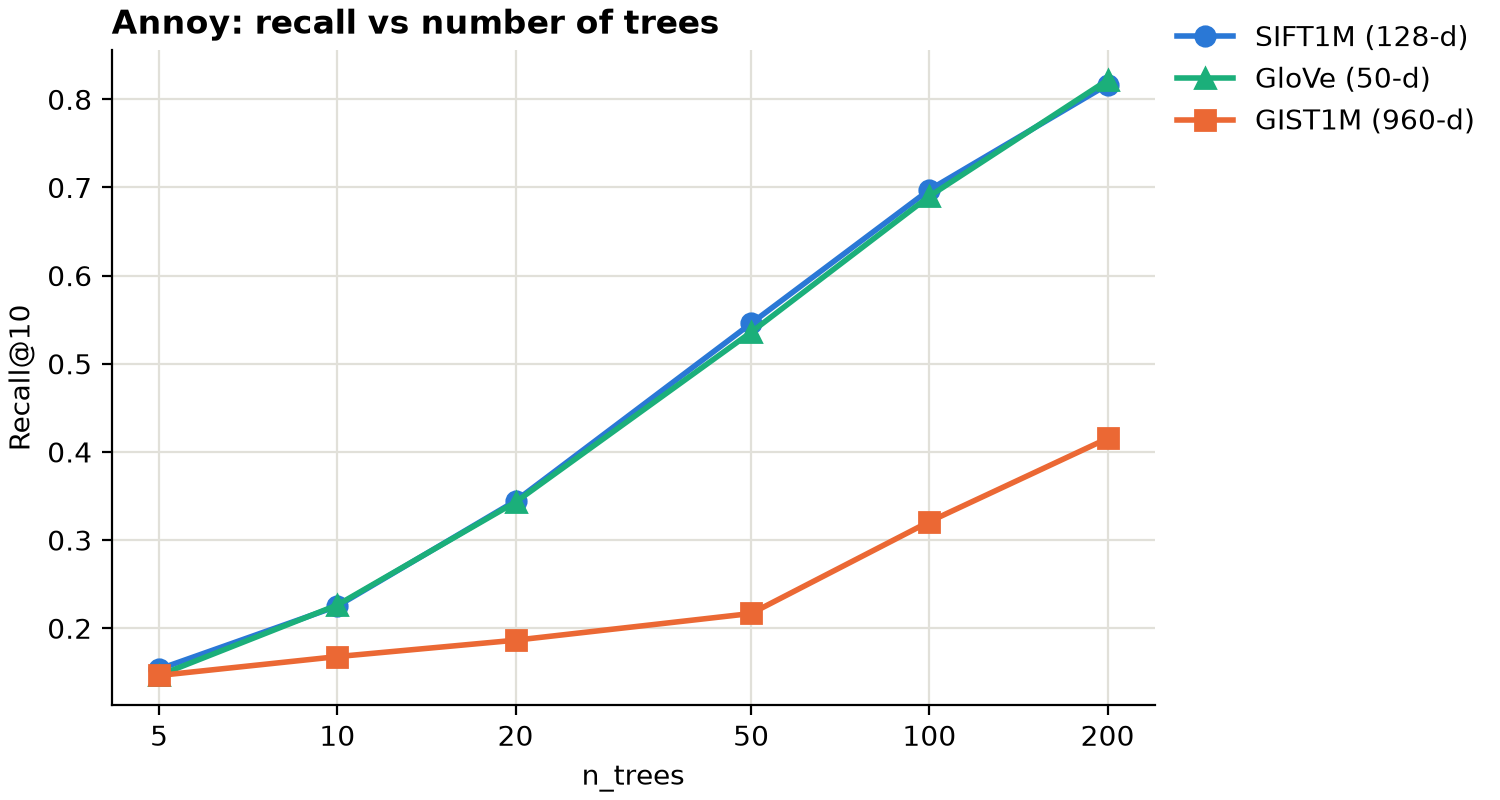
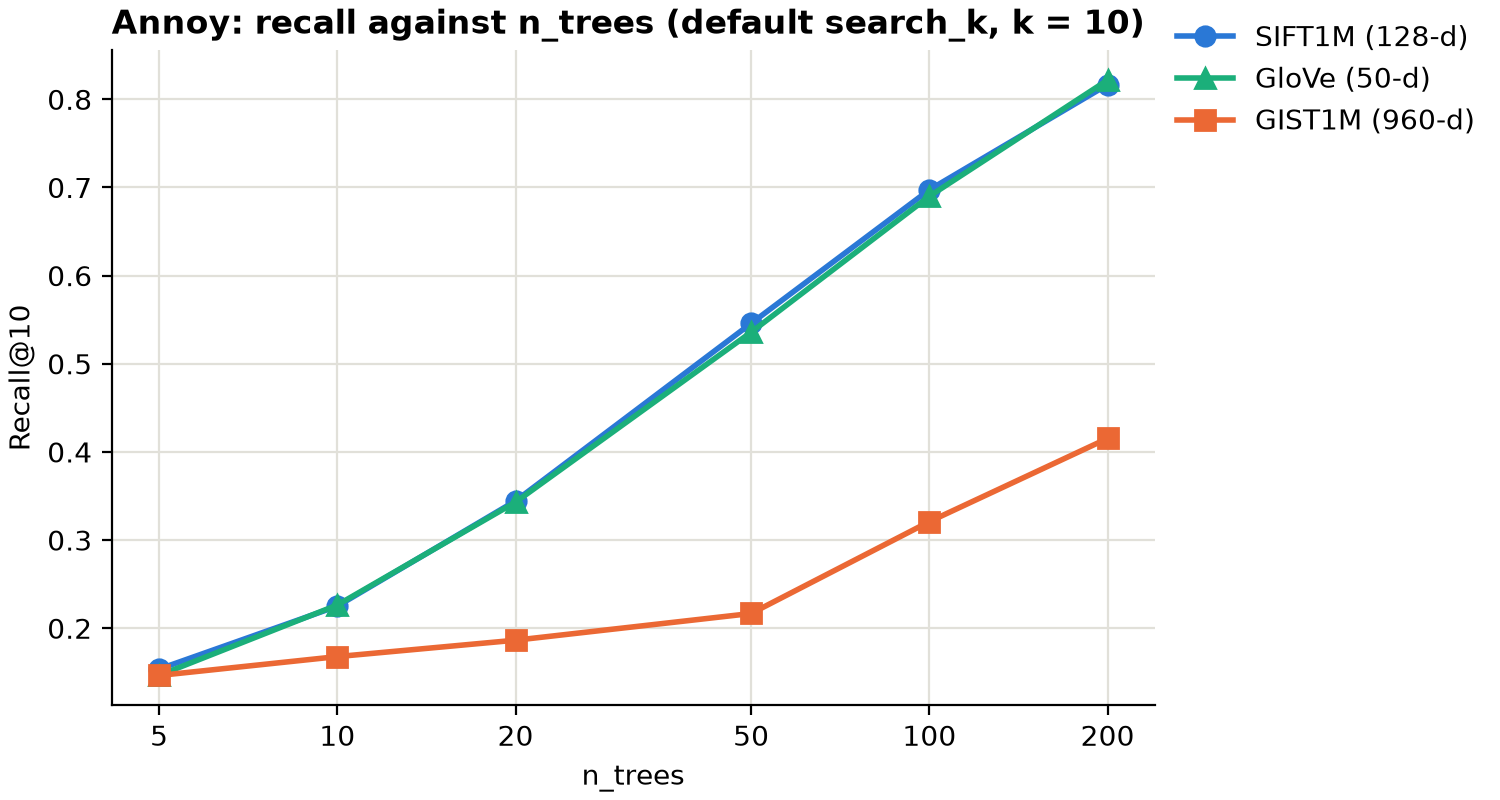
adjusted annoy graph fn

Changed region(s): [[0.2453, 0.0, 0.7667, 0.0625]]

diff --git a/graph.py b/graph.py
@@ -73,7 +73,7 @@ def add_speedup(rows, results_dir=RESULTS_DIR):
 def line_chart(rows, x, y, xlabel, ylabel, title, path, logy=False, hline=None):
     """One line per dataset of row[y] against row[x]; x is drawn on a log-2 axis.
 
-    hline  optional (value, label): a dashed horizontal reference line
+    hline     optional (value, label): a dashed horizontal reference line
     """
     fig, ax = plt.subplots(figsize=(7.5, 4), layout="constrained")
     for dataset in dict.fromkeys(row["dataset"] for row in rows):
@@ -110,89 +110,32 @@ def plot_ball_tree(results_dir=RESULTS_DIR, fig_dir=FIG_DIR):
     raise NotImplementedError
 
 
-def annoy_speed_vs_accuracy(rows, path, trees=(10, 50, 200), target=0.95):
-    """One panel per dataset: queries per second against recall, one line per n_trees.
-
-    Each point is one search_k (labelled), so a line shows the speed/accuracy tradeoff of
-    searching more candidates. The dashed line is the target recall; the circled point is the
-    fastest setting that reaches it (none is circled if no setting does).
-    """
-    datasets = [d for d in DATASETS if any(row["dataset"] == d for row in rows)]
-    markers = dict(zip(trees, "o^s"))
-    shades = dict(zip(trees, (0.45, 0.7, 1.0)))   # more trees = darker line
-    # search_k = -1 means "Annoy's default", which has no fixed value, so it is left out.
-    rows = [row for row in rows if row["search_k"] > 0 and row["n_trees"] in trees]
-    ticks = {500: "500", 5000: "5k", 50000: "50k"}  # only these points get a label
-
-    fig, axes = plt.subplots(1, len(datasets), figsize=(14, 4.4), sharey=True, layout="constrained")
-    for ax, dataset in zip(axes, datasets):
-        name, colour, _ = DATASETS[dataset]
-        shown = [row for row in rows if row["dataset"] == dataset]
-        for n in trees:
-            points = sorted((row["recall"], row["qps"], row["search_k"])
-                            for row in shown if row["n_trees"] == n)
-            ax.plot([p[0] for p in points], [p[1] for p in points], color=colour, alpha=shades[n],
-                    marker=markers[n], linewidth=2, markersize=7, label=f"n_trees = {n}")
-            for recall, qps, search_k in points:
-                if search_k in ticks:
-                    ax.annotate(ticks[search_k], (recall, qps), textcoords="offset points",
-                                xytext=(5, 5), fontsize=8, color="#555555")
-        ax.axvline(target, color="#898781", linestyle="--", linewidth=1.2)
-        reached = [row for row in shown if row["recall"] >= target]
-        if reached:
-            best = max(reached, key=lambda row: row["qps"])
-            ax.scatter([best["recall"]], [best["qps"]], s=420, facecolors="none",
-                       edgecolors="black", linewidths=1.6, zorder=5)
-        else:
-            ax.text(0.03, 0.04, f"no setting reaches recall {target}", transform=ax.transAxes,
-                    fontsize=8, color="#555555")
-        ax.set_yscale("log")
-        ax.set_xlim(0, 1.05)
-        ax.set_xlabel(f"Recall@{REPORT_K}")
-        ax.set_title(name, loc="left", fontweight="bold")
-        handles, labels = ax.get_legend_handles_labels()
-        if reached:
-            # A fixed-size handle; the circle drawn on the plot is too big for the legend.
-            handles.append(plt.Line2D([], [], marker="o", linestyle="", markersize=11,
-                                      markerfacecolor="none", markeredgecolor="black",
-                                      markeredgewidth=1.6))
-            labels.append(f"fastest at recall {target}")
-        ax.legend(handles, labels, loc="upper right", fontsize=8)
-    axes[0].set_ylabel("Queries per second")
-    fig.suptitle(f"Annoy: speed against accuracy (k = {REPORT_K}; point labels are search_k, "
-                 f"dashed line is recall {target})", fontweight="bold")
-    Path(path).parent.mkdir(parents=True, exist_ok=True)
-    fig.savefig(path, dpi=200, facecolor="white")
-    plt.close(fig)
-    return Path(path)
-
-
 def plot_annoy(results_dir=RESULTS_DIR, fig_dir=FIG_DIR):
-    """Five charts: the speed/accuracy tradeoff, then what more trees and more candidates cost and buy."""
+    """Four charts: what more trees cost and buy, and what searching more candidates costs and buys."""
     rows = load_results("annoy", results_dir)
     if not rows:
         return []
-    fig_dir = Path(fig_dir)
+    fig_dir = Path(fig_dir) / "annoy"
     # search_k = -1 means Annoy's default (n_trees * k); it has no fixed value, so the
     # n_trees charts use only those rows and the search_k charts leave them out.
     default_k = [row for row in rows if row["search_k"] == -1]
     # The search_k charts hold n_trees fixed at this value.
     fixed_trees = 50
     fixed = [row for row in rows if row["n_trees"] == fixed_trees and row["search_k"] > 0]
+    fixed_text = f"n_trees = {fixed_trees}, k = {REPORT_K}"
     return [
-        annoy_speed_vs_accuracy(rows, fig_dir / "annoy_speed_vs_accuracy.png"),
+        line_chart(fixed, "search_k", "qps", "search_k (candidates checked per query)",
+                   "Queries per second", f"Annoy: QPS against search_k ({fixed_text})",
+                   fig_dir / "annoy_qps_vs_search_k.png", logy=True),
+        line_chart(fixed, "search_k", "recall", "search_k (candidates checked per query)",
+                   f"Recall@{REPORT_K}", f"Annoy: recall against search_k ({fixed_text})",
+                   fig_dir / "annoy_recall_vs_search_k.png"),
         line_chart(default_k, "n_trees", "recall", "n_trees", f"Recall@{REPORT_K}",
-                   "Annoy: recall vs number of trees",
+                   f"Annoy: recall against n_trees (default search_k, k = {REPORT_K})",
                    fig_dir / "annoy_recall_vs_trees.png"),
         line_chart(default_k, "n_trees", "build_time_s", "n_trees", "Build time (s)",
-                   "Annoy: build time vs number of trees",
+                   f"Annoy: build time against n_trees (k = {REPORT_K})",
                    fig_dir / "annoy_build_time_vs_trees.png", logy=True),
-        line_chart(fixed, "search_k", "recall", "search_k (candidates checked)", f"Recall@{REPORT_K}",
-                   f"Annoy: recall vs search_k (n_trees={fixed_trees})",
-                   fig_dir / "annoy_recall_vs_search_k.png"),
-        line_chart(fixed, "search_k", "qps", "search_k (candidates checked)", "Queries per second",
-                   f"Annoy: QPS vs search_k (n_trees={fixed_trees})",
-                   fig_dir / "annoy_qps_vs_search_k.png", logy=True),
     ]
 
 
